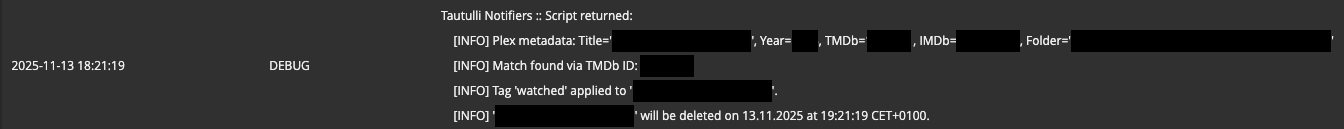
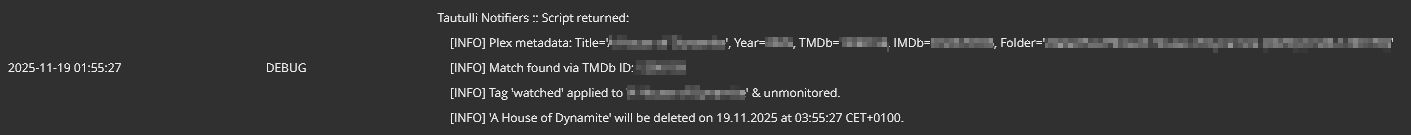
Radarr - Auto Tag: - Now properly unmonitors movie when deletion is scheduled - Updated Readme & screenshots

diff --git a/Radarr/Auto_Tag/radarr_movie.py b/Radarr/Auto_Tag/radarr_movie.py
@@ -7,16 +7,23 @@ from datetime import datetime, timedelta
 
 import requests
 
+def normalize_url(url):
+    if url is None:
+        return None
+    normalized_url = url.strip().rstrip('/')
+    return normalized_url
+
+
 # ======= Configuration =======
-RADARR_URL = ""
-RADARR_API_KEY = ""
+RADARR_URL = normalize_url('')
+RADARR_API_KEY = ''
 
 # Plex server base URL and token (required for rating_key-based lookups)
-PLEX_URL = ""
-PLEX_TOKEN = ""
+PLEX_URL = normalize_url('')
+PLEX_TOKEN = ''
 
-WATCHED_TAG_LABEL = "watched"  # Label of the Radarr tag to apply
-KEEP_TAG_LABEL = "keep"  # Label that prevents deletion
+WATCHED_TAG_LABEL = 'watched'  # Label of the Radarr tag to apply
+KEEP_TAG_LABEL = 'keep'  # Label that prevents deletion
 
 # Delay before deleting the file. 3600 seconds = 1h
 DELETION_DELAY_SECONDS = 3600
@@ -31,7 +38,7 @@ def fetch_tag_map():
     """
     Fetch all Radarr tags and return a mapping {label_lowercase: id}.
     """
-    resp = requests.get(f"{RADARR_URL.rstrip('/')}/api/v3/tag", headers=get_headers())
+    resp = requests.get(f"{RADARR_URL}/api/v3/tag", headers=get_headers())
     resp.raise_for_status()
     tags = resp.json() or []
     return {
@@ -111,7 +118,7 @@ def plex_get_metadata(rating_key: str) -> dict:
     params = {"includeGuids": "1", "X-Plex-Token": PLEX_TOKEN}
     headers = {"Accept": "application/json"}
 
-    url = f"{PLEX_URL.rstrip('/')}/library/metadata/{rating_key}"
+    url = f"{PLEX_URL}/library/metadata/{rating_key}"
     resp = requests.get(url, params=params, headers=headers, timeout=10)
     resp.raise_for_status()
     data = resp.json()
@@ -255,7 +262,7 @@ def main():
 
     try:
         all_movies = requests.get(
-            f"{RADARR_URL.rstrip('/')}/api/v3/movie", headers=get_headers()
+            f"{RADARR_URL}/api/v3/movie", headers=get_headers()
         ).json()
     except Exception as e:
         print(f"[ERROR] Unable to fetch Radarr movies: {e}")
@@ -283,20 +290,28 @@ def main():
     if tag_id not in updated_tags:
         updated_tags.append(tag_id)
     updated["tags"] = updated_tags
+    
+    # Set monitored to false when deleting file, otherwise movie might get upgraded unnecessarily
+    if keep_tag_id not in updated_tags:
+        updated["monitored"] = False
+
 
     try:
         requests.put(
-            f"{RADARR_URL.rstrip('/')}/api/v3/movie/{movie_id}",
+            f"{RADARR_URL}/api/v3/movie/{movie_id}",
             headers=get_headers(),
             json=updated,
         )
-        print(f"[INFO] Tag '{WATCHED_TAG_LABEL}' applied to '{title}'.")
+        if keep_tag_id not in updated_tags:
+            print(f"[INFO] Tag '{WATCHED_TAG_LABEL}' applied to '{title}' & unmonitored.")
+        else:
+            print(f"[INFO] Tag '{WATCHED_TAG_LABEL}' applied to '{title}'.")
     except Exception as e:
-        print(f"[ERROR] Failed to apply tag: {e}")
+        print(f"[ERROR] Failed to apply tag & unmonitor: {e}")
         sys.exit(1)
 
     if keep_tag_id is not None and keep_tag_id in updated_tags:
-        print(f"[INFO] Keep-tag present. Skipping deletion for '{title}'.")
+        print(f"[INFO] Keep-tag present. Skipping deletion for '{title}'  & keeping monitored.")
         sys.exit(0)
 
     if not movie_file or "id" not in movie_file:
@@ -310,7 +325,7 @@ def main():
     )
     delete_cmd = (
         f"sleep {DELETION_DELAY_SECONDS} && "
-        f"curl -sS -X DELETE '{RADARR_URL.rstrip('/')}/api/v3/moviefile/{file_id}' "
+        f"curl -sS -X DELETE '{RADARR_URL}/api/v3/moviefile/{file_id}' "
         f"-H 'X-Api-Key: {RADARR_API_KEY}'"
     )
 

diff --git a/Radarr/Auto_Tag/README.md b/Radarr/Auto_Tag/README.md
@@ -4,7 +4,7 @@
 
 With the help of Tautulli, this will automatically tag a movie after it has been
 watched, unmonitor it in Radarr and deletes the movie file afterwards. If the movie has
-a `keep` tag, the script optionally keeps the movie file, but unmonitors and tags it as watched.
+a `keep` tag, the script optionally keeps the movie file, keeps it monitored and tags it as watched.
 
 The script will not be triggered, if manually setting a movie to watched in Plex.
 <br><br>
@@ -37,30 +37,34 @@ And also sometimes I want to keep a movie, after I watched it - or my daughter w
       `keep` tag to the movie. Or do it later in Radarr.
 2. Download `radarr_movie.py`.
 3. Modify `radarr_movie.py`:
-   1. Add URL and Port of your Radarr instance in line 11.
-   2. Add Radarr API Key in line 12.
-   3. Add URL and Port of your Plex instance in line 15.
-   4. Add X-Plex-Token in line 16. ([Finding an authentication token / X-Plex-Token](https://support.plex.tv/articles/204059436-finding-an-authentication-token-x-plex-token/))
-   5. Edit name of tag for watched movies (i.e. `watched`) in line 18.
-   6. Edit name of tag for movies to keep (i.e. `keep`) in line 19.
-   7. Edit time in seconds after which movies should be deleted in line 22.
-4. Copy `radarr_movie.py` into the Tautulli `Config` folder - next to `tautulli.db` and `config.ini`.
+   1. Add URL and Port of your Radarr instance in line 18 between `''`.
+   2. Add Radarr API Key in line 19 between `''`.
+   3. Add URL and Port of your Plex instance in line 22 between `''`.
+   4. Add X-Plex-Token in line 23 between `''`. ([Finding an authentication token / X-Plex-Token](https://support.plex.tv/articles/204059436-finding-an-authentication-token-x-plex-token/))
+   5. Edit name of tag for watched movies (i.e. `watched`) in line 25 between `''`.
+   6. Edit name of tag for movies to keep (i.e. `keep`) in line 26 between `''`.
+   7. Edit time in seconds after which movies should be deleted in line 29 between `''`.
+4. Create folder in Tautulli environment:
+   1. Create a folder `scripts` in the Tautulli `Config` folder - next to `tautulli.db` and `config.ini`.
+   2. Create a folder `auto_tag` inside this `scripts` folder.
+   3. Copy `radarr_movie.py` into the `auto_tag` folder.
 5. In Tautulli, go to gear icon -> `Settings` -> `Notifications Agents`
 6. Click on `Add new notification agent`.
 7. In the list, select `Script`.
 8. `Configuration` tab:
-   1. For `Script Folder` click on `Browse` and select the `Config` folder of Tautulli you copied `radarr_movie.py` into.
+   1. For `Script Folder` click on `Browse` and select the `/config/scripts/auto_tag`
+      folder of Tautulli you copied `radarr_movie.py` into.
    2. Click for `Script File` into the dropdown menu and select `radarr_movie.py`.
    3. For `Description` chose something of your liking (i.ie `Radarr 'watched' and delete in 1h`).
-9. `Triggers`tab:
-   1. Select `Watched`.
-10. `Conditions` tab:
+    `Triggers`tab:
+   4. Select `Watched`.
+9. `Conditions` tab:
     1. `Condition {1}` should be set to: `Media Type is not Episode`. You need to enter
        `Episode` manually.
-11. `Arguments` tab:
+10. `Arguments` tab:
     1. Click on `Watched`and add `{rating_key} {title} {year}` to the `Script Arguments`.
-12. Click on `Save` and close the `Script Settings` window.
-13. Adjust movie played threshold:
+11. Click on `Save` and close the `Script Settings` window.
+12. Adjust movie played threshold:
     1. In Plex go to `Settings` -> `Settings` -> `Library` and adjust `Video played threshold` to your liking. I have set it to 95%.
     2. In Tautulli go to `Settings` -> `General` and set `Movie Watched Percentage` to
        the same value.
